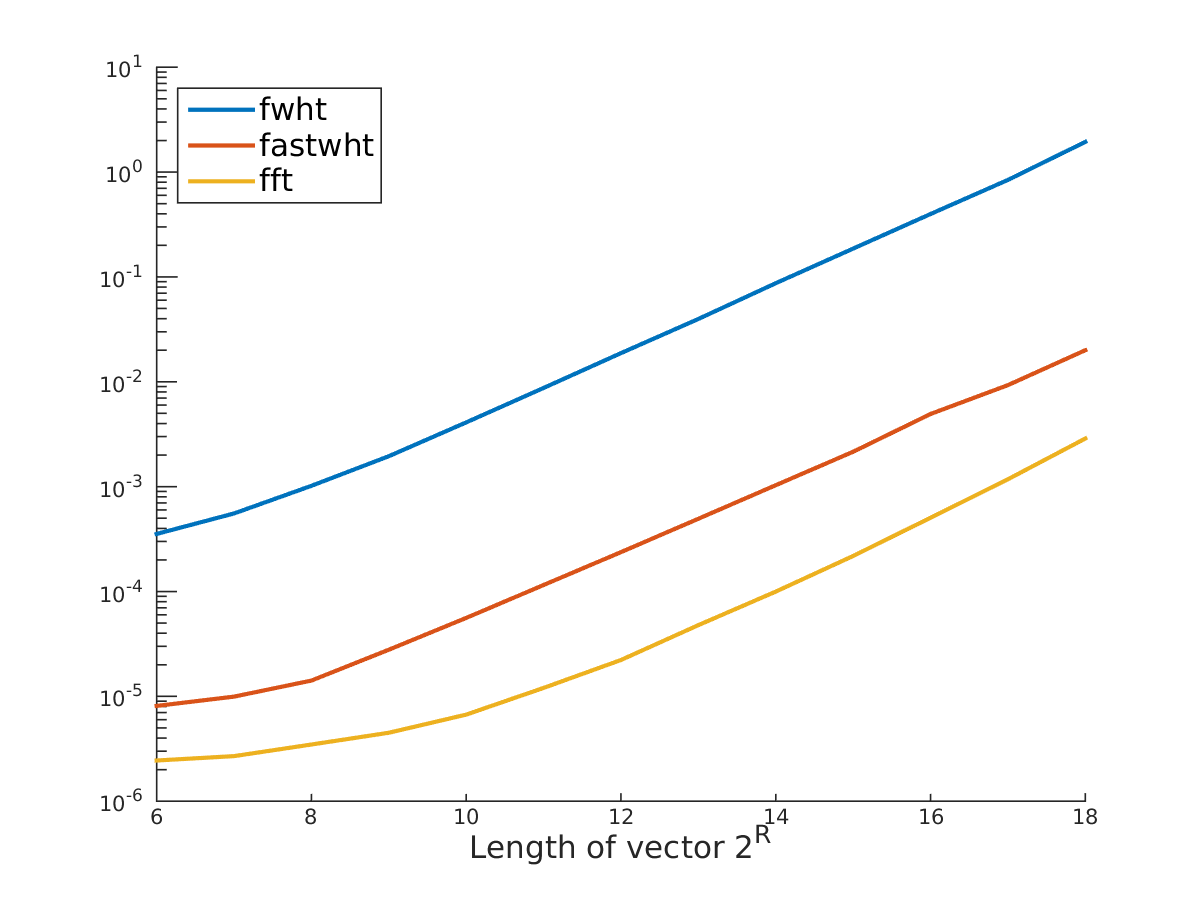
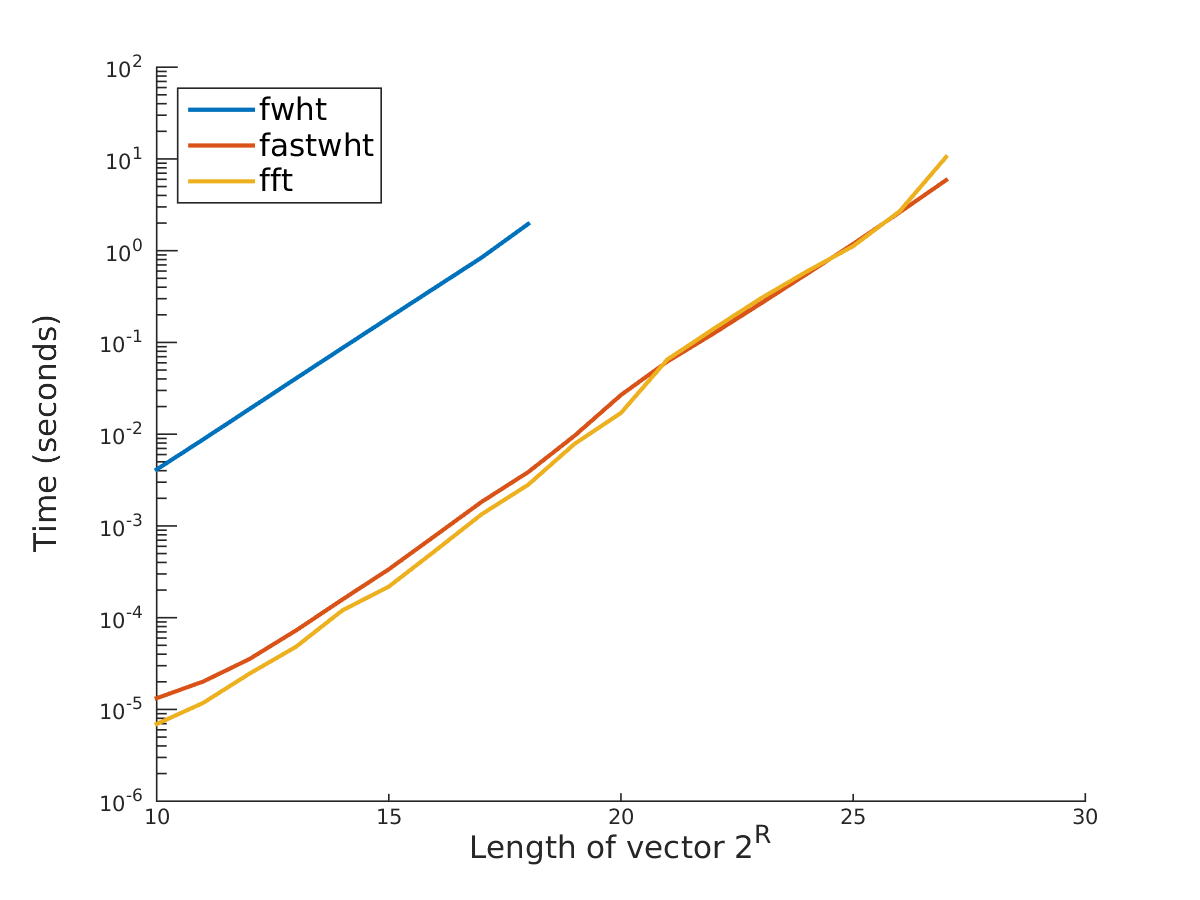
Removed 'includes', updated test_time.m and image

diff --git a/hadamard.cpp b/hadamard.cpp
@@ -22,12 +22,6 @@ This file contain the interface to the computational core of the Hadamard transf
 #include "hadamard.h"
 #include "python/hadamardKernel.h"
 
-// FXT
-#include "bits/bit2pow.h" // ld
-#include "walsh/walshseq.h" // walsh_seq2
-#include "perm/revbinpermute.h" // revbin_permute
-#include "walsh/walshwak.h" // walsh_wal
-#include "walsh/walshwal.h"
 
 /*
     The Hadamard transform
@@ -160,17 +154,17 @@ n - row number i.e., Walsh-Hadamard function ψ_n
 t - column i.e., the input ψ_n(t/N)
 
 */
-int WAL(uint32_t N, uint32_t n, uint32_t t) 
+int WAL(unsigned long N, unsigned long n, unsigned long t) 
 {
-    const uint32_t ldn = ld(N);
-    uint32_t s = 0;
-    uint32_t n_pr = 0x00000001;
-    uint32_t t_r  = 0x00000001;
+    const unsigned long ldn = ld(N);
+    unsigned long s = 0;
+    unsigned long n_pr = 1;
+    unsigned long t_r  = 1;
     n_pr = n_pr << (ldn-1);
-    uint32_t n_r = 0;
-    uint32_t t_s = 0;
+    unsigned long n_r = 0;
+    unsigned long t_s = 0;
 
-    for (uint32_t r = 0; r < ldn; r++) 
+    for (unsigned long r = 0; r < ldn; r++) 
     {
         n_r = (((n_pr >> r) & n) >> (ldn - r-1));
         t_s = (((t_r << r) & t) >> r) - (((t_r << (r+1)) & t) >> (r+1));
@@ -193,15 +187,15 @@ n - row number i.e., Walsh-Hadamard function ψ_n
 t - column i.e., the input ψ_n(t/N)
 
 */
-int PAL(uint32_t N, uint32_t n, uint32_t x) 
+int PAL(unsigned long N, unsigned long n, unsigned long x) 
 {
     const int ldn = ld(N); 
-    uint32_t s = 0;
-    uint32_t ONE = 0x00000001;
-    uint32_t n_j = 0;
-    uint32_t x_jp1 = 0;
+    unsigned long s = 0;
+    unsigned long ONE = 1;
+    unsigned long n_j = 0;
+    unsigned long x_jp1 = 0;
 
-    for (uint32_t j = 0; j < ldn; j++) 
+    for (unsigned long j = 0; j < ldn; j++) 
     {
         n_j = (n & (ONE << j)) >> j ;
         x_jp1 = (x & (ONE << (ldn - j-1))) >> (ldn - j-1);

diff --git a/matlab/test_time.m b/matlab/test_time.m
@@ -17,16 +17,16 @@
 % This program tests the performance of the different implementations.
 %
 
-n_start = 6;
-n_end   = 18;
+n_start = 10;
+fwht_end = 18;
+n_end   = 27;
 
-resolution = n_start:n_end;
 
 t_fwht = [];
 t_fastwht = [];
 t_fft = [];
 
-for k = resolution
+for k = n_start:fwht_end
 
     N = 2^k;
     x = randn(N,1);
@@ -45,17 +45,34 @@ for k = resolution
 
 end
 
+for k = fwht_end+1:n_end
+
+    N = 2^k;
+    x = randn(N,1);
+    
+    f2 = @() fastwht(x);
+    f3 = @() fft(x);
+
+    t2 = timeit(f2);
+    t3 = timeit(f3);
+
+    t_fastwht = [t_fastwht, t2];
+    t_fft = [t_fft, t3];
+
+end
+
 lwidth = 2;
 fsize  = 15;
 
 fig = figure();
 hold('on');
-plot(resolution, t_fwht(resolution-n_start+1), 'linewidth', lwidth );
-plot(resolution, t_fastwht(resolution-n_start+1), 'linewidth', lwidth );
-plot(resolution, t_fft(resolution-n_start+1), 'linewidth', lwidth );
+plot(n_start:fwht_end, t_fwht, 'linewidth', lwidth );
+plot(n_start:n_end, t_fastwht, 'linewidth', lwidth );
+plot(n_start:n_end, t_fft, 'linewidth', lwidth );
 legend({'fwht', 'fastwht', 'fft'}, 'fontsize', fsize, 'Location', 'northwest');
 xlabel('Length of vector 2^{R}', 'fontsize', fsize);
+ylabel('Time (seconds)', 'fontsize', fsize);
 set(gca,'yscale','log');
 
-%saveas(fig, 'compare_performance.png');
+saveas(fig, 'compare_performance.png');
 

diff --git a/hadamard.h b/hadamard.h
@@ -24,15 +24,14 @@ For the file interfacing with python see python/hadamard.h
 #ifndef FASTWHT_HADAMARD_H_
 #define FASTWHT_HADAMARD_H_
 
-#include <iostream>
-#include <iomanip>
-#include <cstring>
-#include <cmath>
 #include <complex>
-#include <vector>
-#include <list>
-#include <stdint.h>
-//#include <thread>
+
+// FXT
+#include "bits/bit2pow.h" // ld
+#include "walsh/walshseq.h" // walsh_seq2
+#include "perm/revbinpermute.h" // revbin_permute
+#include "walsh/walshwak.h" // walsh_wak
+#include "walsh/walshwal.h" // walsh_wal
 
 enum HadamardOrder {ORDINARY, PALEY, SEQUENCY};
 
@@ -48,8 +47,8 @@ template<typename T>
 void hadamardTransform2dColumn(T* x, const unsigned long M , 
                                      const unsigned long N, 
                                      const HadamardOrder order);
-int WAL(unsigned int N, unsigned int n, unsigned int t);
-int PAL(unsigned int N, unsigned int n, unsigned int t);
+int WAL(unsigned long N, unsigned long n, unsigned long t);
+int PAL(unsigned long N, unsigned long n, unsigned long t);
 
 template <typename T>
 void hadamardOrdinary(T *x, const unsigned long N);

diff --git a/python/hadamardKernel.h b/python/hadamardKernel.h
@@ -16,8 +16,6 @@
 #ifndef FASTWHT_PYTHON_HADAMARDKERNEL_H_
 #define FASTWHT_PYTHON_HADAMARDKERNEL_H_
 
-#include <complex>
-
 /*
 
 This header file contains an interface to the code which is used from the python
